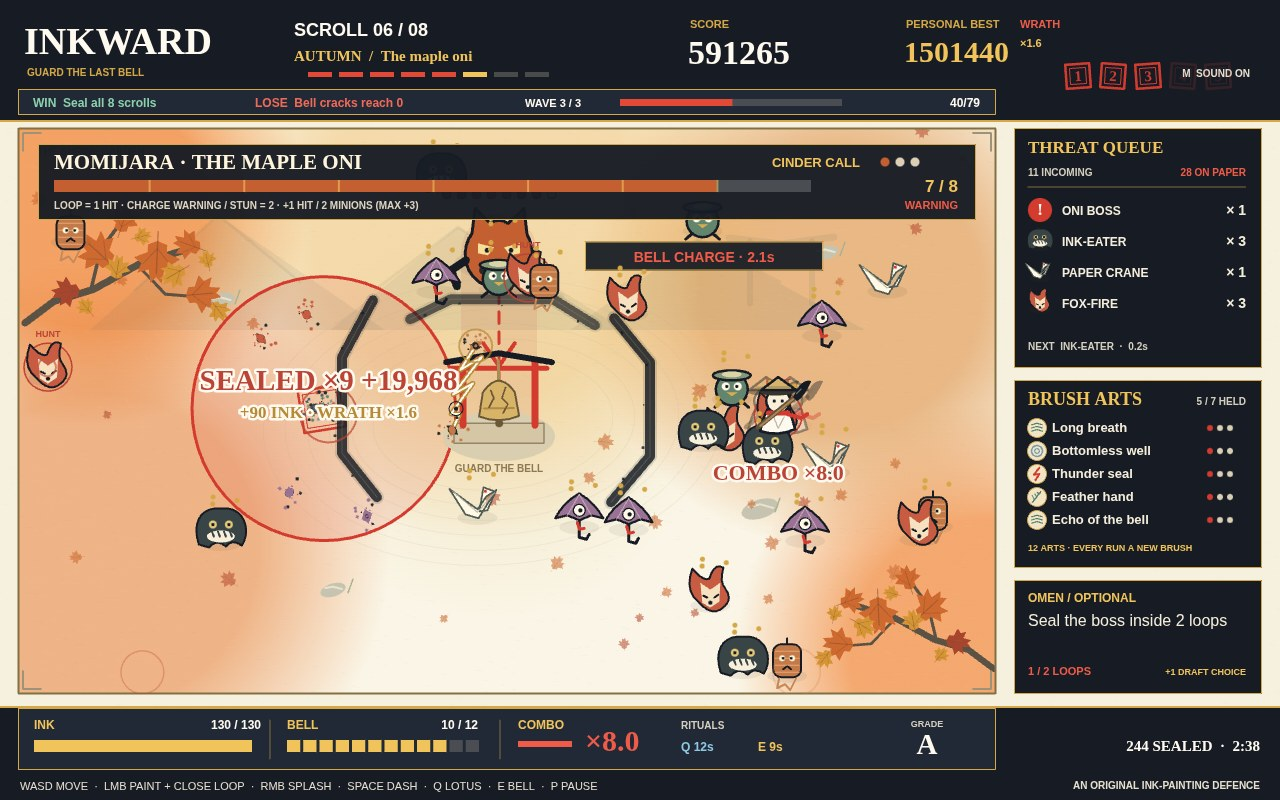
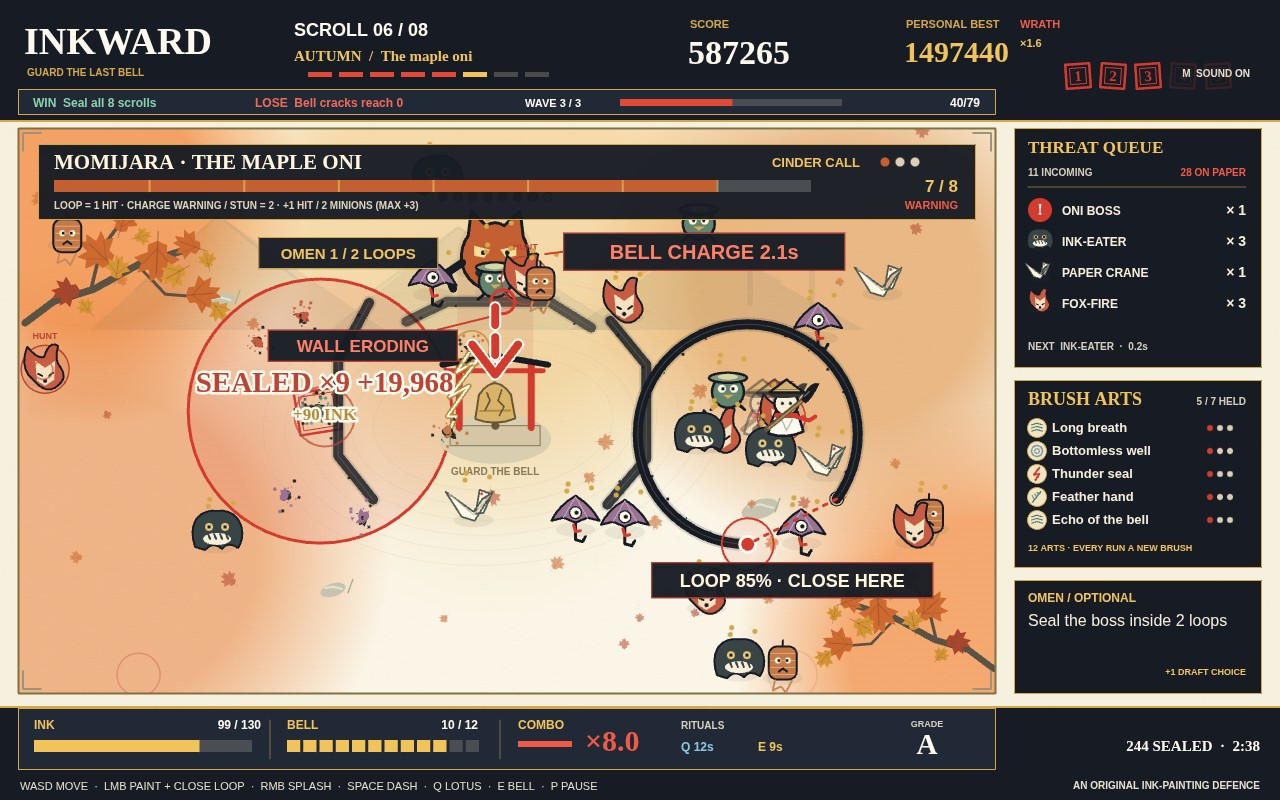
Show live loop, erosion, charge and omen decisions in play

diff --git a/game/src/render/bosses.js b/game/src/render/bosses.js
@@ -1,27 +1,52 @@
-import { COLORS } from '../config.js';
+import { COLORS, FIELD, clamp } from '../config.js';
 import { bossPhase, ATTACK_NAMES } from '../entities/bosses.js';
 import { text, panel, circle, line } from './primitives.js';
+import { omenProgress } from '../world/omens.js';
 
 export function drawBossTelegraphs(ctx, state) {
   for (const boss of state.enemies) {
-    if (boss.kind !== 'oni' || !boss.telegraph) continue;
+    if (boss.kind !== 'oni' || boss.dead || !boss.telegraph) continue;
     const warning = boss.telegraph, progress = 1 - warning.time / warning.total;
     const color = warning.kind === 'charge' ? COLORS.red : boss.color;
     if (warning.kind === 'charge') {
       line(ctx, [[warning.x, warning.y], [warning.end.x, warning.end.y]], '#bb44361c', 76);
-      ctx.setLineDash([12, 8]); line(ctx, [[warning.x, warning.y], [warning.end.x, warning.end.y]], color, 3); ctx.setLineDash([]);
-      const a = Math.atan2(warning.end.y - warning.y, warning.end.x - warning.x);
-      const tip = { x: warning.end.x - Math.cos(a) * 42, y: warning.end.y - Math.sin(a) * 42 };
-      line(ctx, [[tip.x - Math.cos(a - 0.6) * 28, tip.y - Math.sin(a - 0.6) * 28], [tip.x, tip.y], [tip.x - Math.cos(a + 0.6) * 28, tip.y - Math.sin(a + 0.6) * 28]], color, 4);
     } else {
       circle(ctx, warning.x, warning.y, warning.radius, color + '18', color, 2);
       ctx.setLineDash([7, 8]); circle(ctx, warning.x, warning.y, warning.radius * (0.25 + progress * 0.75), null, color, 2); ctx.setLineDash([]);
       if (warning.kind === 'storm') for (let i = 0; i < 8; i++) { const a = i / 8 * Math.PI * 2; circle(ctx, warning.x + Math.cos(a) * warning.radius, warning.y + Math.sin(a) * warning.radius, 9, '#fff5da', color, 2); }
     }
-    const labelY = warning.kind === 'charge' ? Math.max(254, warning.y + 12) : Math.max(240, warning.y - warning.radius - 20);
-    const labelX = warning.kind === 'charge' ? Math.min(810, warning.x + 205) : warning.x;
-    panel(ctx, labelX - 119, labelY - 22, 238, 29, '#171c24ee', '#d5a847');
-    text(ctx, `${ATTACK_NAMES[warning.kind]} · ${warning.time.toFixed(1)}s`, labelX, labelY - 2, 14, warning.kind === 'charge' ? '#ef5b48' : '#f0c35b', 'bold', false, 'center');
+  }
+}
+
+export function drawBossCallouts(ctx, state) {
+  const boss = state.enemies.find(e => e.kind === 'oni' && !e.dead);
+  if (!boss) return;
+  if (boss.telegraph) {
+    const warning = boss.telegraph;
+    if (warning.kind === 'charge') {
+      // The bold lane stays above sprites so the shrine cannot hide its arrowhead.
+      const a = Math.atan2(warning.end.y - warning.y, warning.end.x - warning.x);
+      const start = { x: warning.x + Math.cos(a) * (boss.radius + 10), y: warning.y + Math.sin(a) * (boss.radius + 10) };
+      const tip = { x: warning.end.x - Math.cos(a) * 36, y: warning.end.y - Math.sin(a) * 36 };
+      ctx.setLineDash([18, 12]);
+      line(ctx, [[start.x, start.y], [tip.x, tip.y]], '#fffaf0', 12);
+      line(ctx, [[start.x, start.y], [tip.x, tip.y]], COLORS.red, 8); ctx.setLineDash([]);
+      const arrow = [[tip.x - Math.cos(a - 0.65) * 38, tip.y - Math.sin(a - 0.65) * 38], [tip.x, tip.y], [tip.x - Math.cos(a + 0.65) * 38, tip.y - Math.sin(a + 0.65) * 38]];
+      line(ctx, arrow, '#fffaf0', 12); line(ctx, arrow, COLORS.red, 8);
+    }
+    const x = clamp(boss.x + boss.radius + 25, FIELD.x + 10, FIELD.x + FIELD.w - 292);
+    const y = clamp(boss.y - 24, FIELD.y + 105, FIELD.y + FIELD.h - 90);
+    const color = warning.kind === 'charge' ? '#ff8067' : '#f0c35b';
+    panel(ctx, x, y, 282, 38, '#171c24f5', COLORS.red);
+    text(ctx, `${ATTACK_NAMES[warning.kind]} ${warning.time.toFixed(1)}s`, x + 141, y + 26, 20, color, 'bold', false, 'center');
+    line(ctx, [[x, y + 19], [boss.x + boss.radius + 7, boss.y]], COLORS.red, 2);
+  }
+  if (state.omen.id === 'boss') {
+    const x = clamp(boss.x - boss.radius - 194, FIELD.x + 10, FIELD.x + FIELD.w - 188);
+    const y = clamp(boss.y - 17, FIELD.y + 105, FIELD.y + FIELD.h - 40);
+    const color = state.omen.complete ? '#8bd0ac' : state.omen.failed ? '#ff8067' : '#f0c35b';
+    panel(ctx, x, y, 180, 32, '#171c24f5', COLORS.gold);
+    text(ctx, state.omen.failed ? 'OMEN MISSED' : `OMEN ${omenProgress(state.omen)}`, x + 90, y + 22, 15, color, 'bold', false, 'center');
   }
 }
 export function drawBossBanner(ctx, state) {

diff --git a/game/src/render/ink.js b/game/src/render/ink.js
@@ -1,5 +1,6 @@
-import { COLORS, FIELD } from '../config.js';
-import { circle, text, stamp } from './primitives.js';
+import { COLORS, FIELD, INK, distance, clamp } from '../config.js';
+import { polygonArea } from '../ink/geometry.js';
+import { circle, text, stamp, line, panel } from './primitives.js';
 
 function strokePath(ctx, points, width, color) {
   if (points.length < 2) return;
@@ -39,14 +40,45 @@ export function drawStrokes(ctx, state) {
       const offset = 5 + Math.sin(i * 2.3) * 2;
       circle(ctx, p.x + Math.cos(angle) * offset, p.y + Math.sin(angle) * offset, 0.8 + i % 3 * 0.3, COLORS.ink);
     }
-    if (stroke === state.activeStroke) {
-      const start = stroke.points[0];
-      circle(ctx, start.x, start.y, 20, '#bb443610', COLORS.red, 1.5);
-      circle(ctx, start.x, start.y, 3, COLORS.red);
-      text(ctx, 'CLOSE HERE', start.x, start.y - 29, 10, COLORS.red, 'bold', false, 'center');
-    }
   }
   ctx.globalAlpha = 1;
+}
+
+export function loopProgress(stroke) {
+  if (!stroke || stroke.length < INK.minLength || polygonArea(stroke.points) < 900) return 0;
+  const gap = distance(stroke.points[0], stroke.points.at(-1));
+  // Estimate the closed perimeter from the painted length and remaining gap.
+  const progress = Math.round(stroke.length / (stroke.length + gap) * 100);
+  return progress >= 65 ? Math.min(99, progress) : 0;
+}
+
+export function drawInkCallouts(ctx, state) {
+  const stroke = state.activeStroke, progress = loopProgress(stroke);
+  if (stroke) {
+    const start = stroke.points[0];
+    circle(ctx, start.x, start.y, INK.closeRadius, '#d43b2f18', COLORS.red, 2);
+    circle(ctx, start.x, start.y, 8, COLORS.red, COLORS.white, 3);
+  }
+  if (progress) {
+    const start = stroke.points[0], end = stroke.points.at(-1);
+    ctx.setLineDash([4, 7]); line(ctx, [[end.x, end.y], [start.x, start.y]], COLORS.red, 3); ctx.setLineDash([]);
+    const x = clamp((start.x + end.x) / 2 - 141, FIELD.x + 10, FIELD.x + FIELD.w - 292);
+    const y = clamp(Math.max(start.y, end.y) + 18, FIELD.y + 105, FIELD.y + FIELD.h - 44);
+    panel(ctx, x, y, 282, 36, '#171c24f5', COLORS.red);
+    text(ctx, `LOOP ${progress}% · CLOSE HERE`, x + 141, y + 25, 18, '#fff5dd', 'bold', false, 'center');
+  }
+  // Mark one live collision, prioritizing the wall closest to breaking.
+  const eroding = state.strokes.filter(s => s !== stroke && s.erosion?.life > 0 && s.integrity > 0)
+    .sort((a, b) => a.integrity - b.integrity)[0];
+  if (eroding) {
+    const hit = eroding.erosion;
+    circle(ctx, hit.x, hit.y, 12, '#d43b2f28', COLORS.red, 3);
+    const x = clamp(hit.x - 235, FIELD.x + 10, FIELD.x + FIELD.w - 200);
+    const y = clamp(hit.y + 28, FIELD.y + 105, FIELD.y + FIELD.h - 40);
+    line(ctx, [[hit.x, hit.y + 12], [x + 170, y]], COLORS.red, 2);
+    panel(ctx, x, y, 190, 32, '#171c24f5', COLORS.red);
+    text(ctx, 'WALL ERODING', x + 95, y + 22, 17, '#ff8067', 'bold', false, 'center');
+  }
 }
 export function drawCursor(ctx, input, state) {
   const { x, y } = input.pointer;

diff --git a/game/src/coverReplay.js b/game/src/coverReplay.js
@@ -77,6 +77,19 @@ export function directPlayCover(state, input, pilot, trace = null) {
     const burst = state.seals.find(s => s.success && s.life > 1.2);
     const scoredGroup = state.floats.some(f => Number(/^SEALED ×(\d+)/.exec(f.text)?.[1]) >= 4);
     if (boss?.telegraph && wrathLevel(state) === 3 && state.combo >= 6 && live.length >= 12 && kinds.size >= 4 && state.strokes.length >= 3 && state.strokes.length <= 4 && burst && scoredGroup && state.monk.dashTime > 0 && state.ghosts.length >= 2) {
+      // Leave a genuine 85% brush loop open around the next group to seal.
+      const targets = live.filter(e => !e.hunter && e.kind !== 'oni' && e.x > 680 && e.x < 870 && e.y > 340 && e.y < 500);
+      if (targets.length < 3 || state.ink < 45 || state.strokes.length !== 3) continue;
+      const centre = targets.reduce((p, e) => ({ x: p.x + e.x / targets.length, y: p.y + e.y / targets.length }), { x: 0, y: 0 });
+      const radius = 110;
+      input.clearFrame(); input.keys.clear(); input.painting = true;
+      for (let i = 0; i <= 51; i++) {
+        const angle = Math.PI / 2 + i / 60 * Math.PI * 2;
+        const point = { x: centre.x + Math.cos(angle) * radius, y: centre.y + Math.sin(angle) * radius };
+        input.paintEvents.push({ type: i === 0 ? 'begin' : 'move', point }); input.pointer = point;
+      }
+      while (state.hitStop > 0) updateWorld(state, input, STEP);
+      updateWorld(state, input, STEP);
       state.soundEvents.length = 0; return { state, input };
     }
     if (state.bell.hp <= 0) break;

diff --git a/game/src/render/scene.js b/game/src/render/scene.js
@@ -1,7 +1,7 @@
 import { WIDTH, HEIGHT, FIELD } from '../config.js';
 import { drawGarden } from './paper.js';
 import { drawBell, drawMonk, drawYokai } from './sprites.js';
-import { drawStrokes, drawCursor } from './ink.js';
+import { drawStrokes, drawCursor, drawInkCallouts } from './ink.js';
 import { drawEffects } from './fx.js';
 import { drawHud, drawWaveBanner } from './hud.js';
 import { drawTitle } from '../screens/title.js';
@@ -10,7 +10,7 @@ import { drawResults } from '../screens/results.js';
 import { drawPause } from '../screens/pause.js';
 import { spawnPoint } from '../world/waves.js';
 import { circle, text } from './primitives.js';
-import { drawBossBanner, drawBossTelegraphs } from './bosses.js';
+import { drawBossBanner, drawBossTelegraphs, drawBossCallouts } from './bosses.js';
 
 export function renderScene(ctx, paper, state, input, audio) {
   ctx.setTransform(1, 0, 0, 1, 0, 0); ctx.globalAlpha = 1; ctx.setLineDash([]);
@@ -39,7 +39,11 @@ export function renderScene(ctx, paper, state, input, audio) {
   }
   drawMonk(ctx, state.monk, state.time);
   drawEffects(ctx, state);
-  if (state.mode === 'play') drawCursor(ctx, input, state);
+  if (state.mode === 'play') {
+    drawCursor(ctx, input, state);
+    drawInkCallouts(ctx, state);
+    drawBossCallouts(ctx, state);
+  }
   if (state.flash > 0) { ctx.fillStyle = `rgba(187,68,54,${state.flash * 0.4})`; ctx.fillRect(FIELD.x, FIELD.y, FIELD.w, FIELD.h); }
   ctx.restore();
   drawHud(ctx, state, audio);

diff --git a/game/src/render/fx.js b/game/src/render/fx.js
@@ -60,11 +60,13 @@ export function drawEffects(ctx, state) {
   ctx.globalAlpha = 1;
   const bigSeal = state.floats.some(f => Number(/^SEALED ×(\d+)/.exec(f.text)?.[1]) >= 4);
   for (const f of state.floats) {
-    if (bigSeal && /^(LOTUS HUSH|WRATH \d)/.test(f.text)) continue;
+    // Combo and WRATH are already readable in the permanent HUD.
+    if (/^(COMBO ×|WRATH \d)/.test(f.text) || (bigSeal && f.text === 'LOTUS HUSH')) continue;
+    const value = f.text.replace(/ · WRATH ×[\d.]+$/, '');
     ctx.globalAlpha = Math.min(1, f.life * 2);
     ctx.font = `bold ${f.size}px Georgia, serif`; ctx.textAlign = 'center';
-    ctx.lineWidth = 5; ctx.strokeStyle = '#fffaf0'; ctx.strokeText(f.text, f.x, f.y);
-    ctx.fillStyle = f.color; ctx.fillText(f.text, f.x, f.y);
+    ctx.lineWidth = 5; ctx.strokeStyle = '#fffaf0'; ctx.strokeText(value, f.x, f.y);
+    ctx.fillStyle = f.color; ctx.fillText(value, f.x, f.y);
   }
   ctx.globalAlpha = 1; ctx.textAlign = 'left';
 }

diff --git a/game/src/render/hud.js b/game/src/render/hud.js
@@ -85,9 +85,10 @@ export function drawHud(ctx, state, audio) {
   text(ctx, '12 ARTS · EVERY RUN A NEW BRUSH', 1028, 551, 9, '#f0c35b', 'bold');
 
   panel(ctx, 1014, 580, 248, 114, '#171c24', COLORS.gold);
+  const bossOmen = state.mode === 'play' && state.omen.id === 'boss' && state.enemies.some(e => e.kind === 'oni' && !e.dead);
   text(ctx, 'OMEN / OPTIONAL', 1028, 602, 12, '#f0c35b', 'bold');
   wrapText(ctx, state.omen.label, 1028, 626, 216, 20, 16, '#f4eddb');
-  text(ctx, omenProgress(state.omen), 1028, 675, 11, state.omen.complete ? '#8bd0ac' : '#ef5b48', 'bold');
+  if (!bossOmen) text(ctx, omenProgress(state.omen), 1028, 675, 11, state.omen.complete ? '#8bd0ac' : '#ef5b48', 'bold');
   text(ctx, omenReward(state.omen), 1246, 675, 9, '#f0c35b', 'bold', false, 'right');
 
   panel(ctx, 18, 708, 978, 62, '#222936', COLORS.gold);

diff --git a/game/src/ink/strokes.js b/game/src/ink/strokes.js
@@ -70,6 +70,7 @@ export function updateStrokes(state, input, dt) {
     if (stroke !== state.activeStroke) stroke.life -= dt / (1 + artLevel(state, 'stone') * 0.5);
     stroke.flash = Math.max(0, (stroke.flash || 0) - dt);
     stroke.soundCooldown = Math.max(0, (stroke.soundCooldown || 0) - dt);
+    if (stroke.erosion) stroke.erosion.life = Math.max(0, stroke.erosion.life - dt);
   }
   state.strokes = state.strokes.filter(stroke => stroke.life > 0 && stroke.integrity > 0).slice(-35);
   if (state.activeStroke && !state.strokes.includes(state.activeStroke)) state.activeStroke = null;

diff --git a/game/src/entities/yokai.js b/game/src/entities/yokai.js
@@ -53,6 +53,7 @@ export function wallCollision(state, enemy, next, dt) {
       const nearest = nearestOnSegment(next, stroke.points[i - 1], stroke.points[i]);
       if (nearest.distance >= enemy.radius + INK.width / 2) continue;
       stroke.integrity -= dt * (enemy.kind === 'eater' ? 0.6 : enemy.kind === 'oni' ? 0.32 : 0.09) / (1 + artLevel(state, 'stone') * 0.25);
+      stroke.erosion = { x: nearest.x, y: nearest.y, life: 0.75 };
       if (!stroke.soundCooldown) {
         stroke.flash = 0.25; stroke.soundCooldown = 0.6;
         state.soundEvents.push({ name: 'wallHit' });
